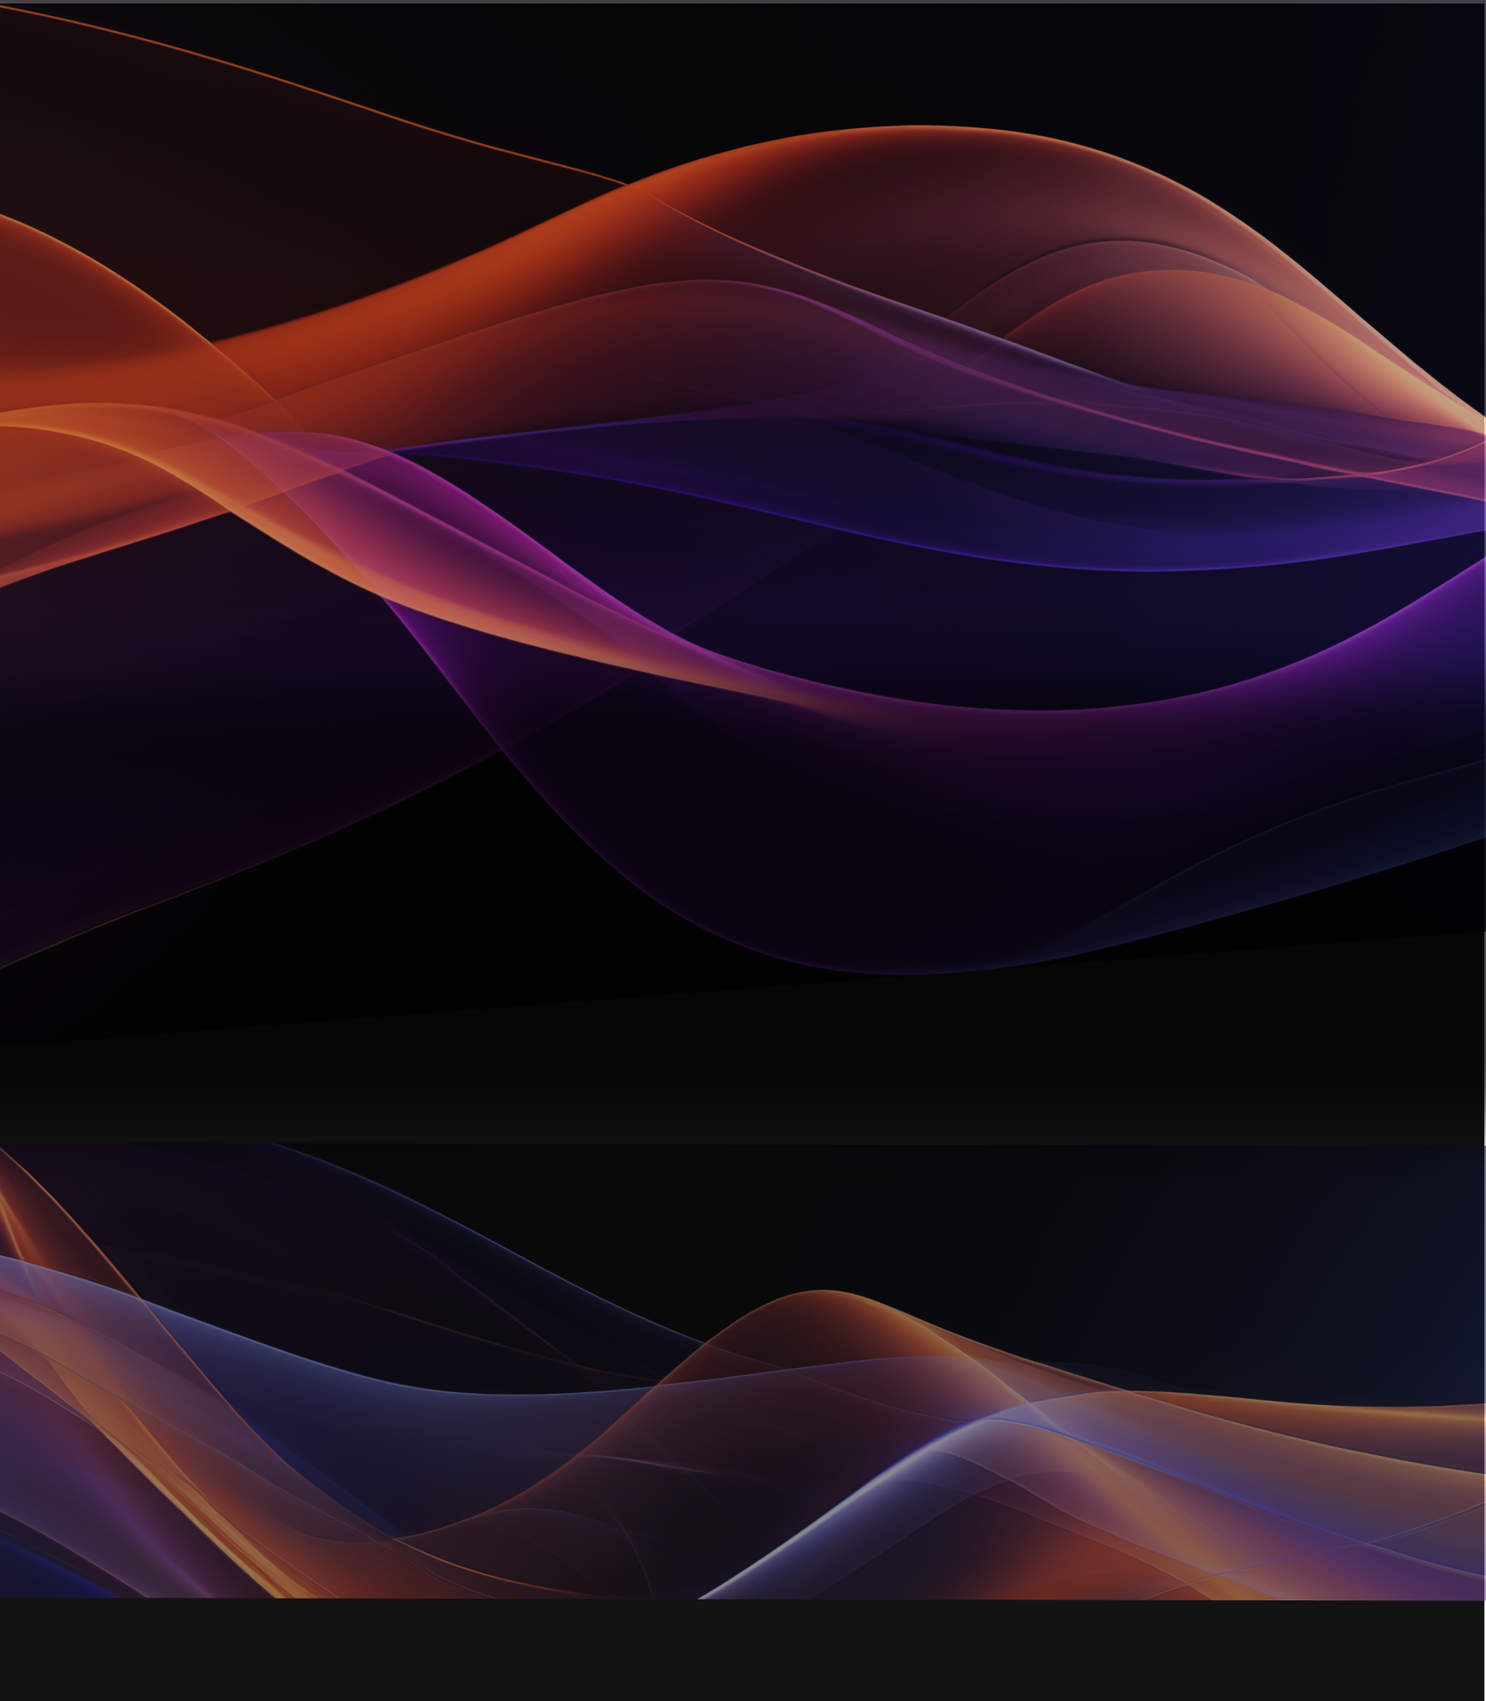
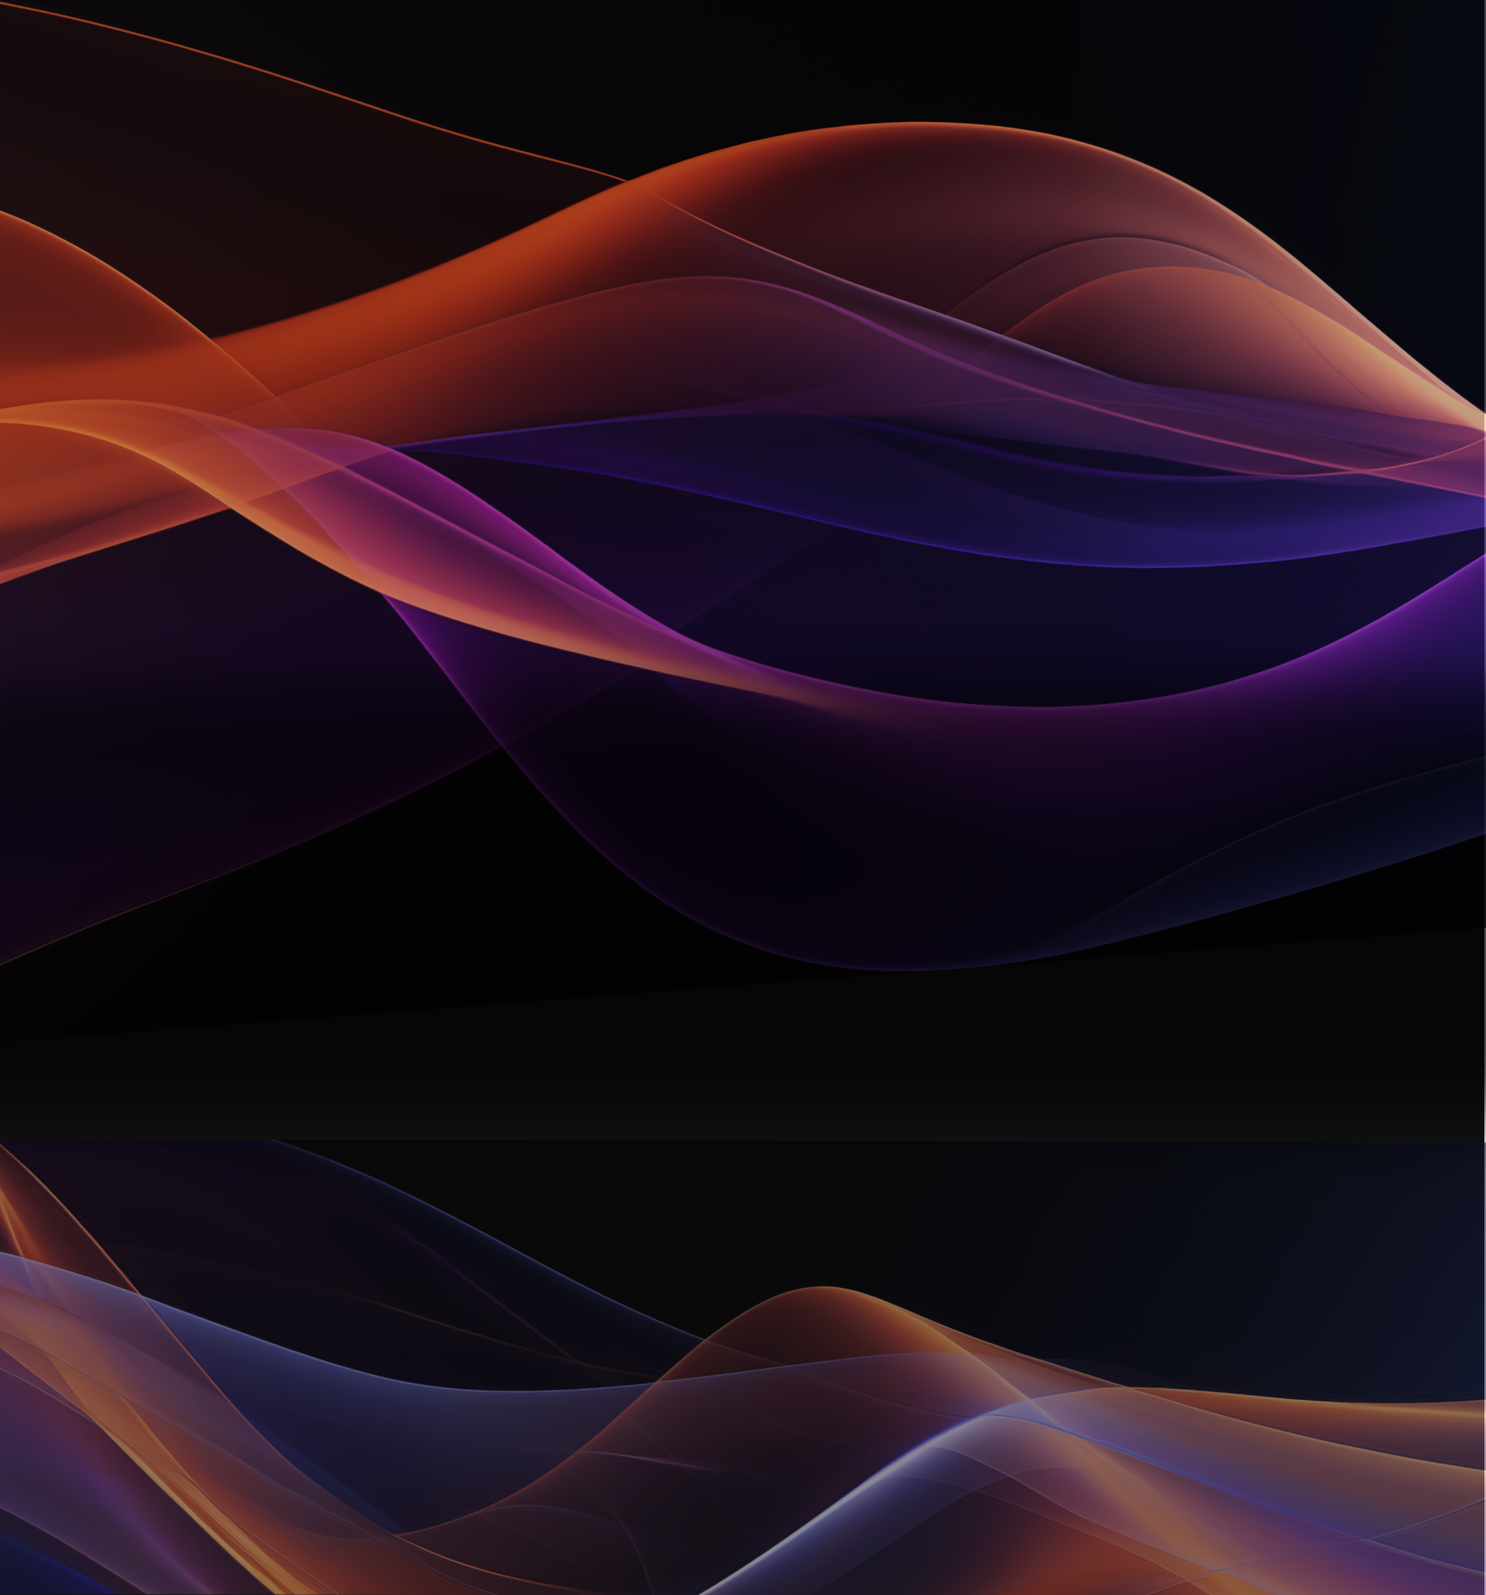
a

diff --git a/src/app/page.tsx b/src/app/page.tsx
@@ -3,92 +3,94 @@ import Sidebar from "./components/sidebar";
 
 export default function Home() {
   return (
-    <main className="bg-[url('/images/bg.png')] bg-cover relative">
-      <div className="absolute left-5 bg-[linear-gradient(180deg,_#F44343_0%,_#FF8719_37.5%,_#FFE819_75%)] w-[5px] h-full top-0 bottom-0"></div>
-      <div className="pl-[66px]">
-        <div className="flex md:gap-[170px] gap-10 pt-[86px]">
+    <main className="bg-[url('/images/bg.png')] bg-top bg-cover relative">
+      <div className="absolute left-3 md:left-5 bg-[linear-gradient(180deg,_#F44343_0%,_#FF8719_37.5%,_#FFE819_75%)] w-1 md:w-[5px] h-full top-0 bottom-0"></div>
+      <div className="max-md:px-[28px] md:pl-[66px]">
+        <div className="flex max-md:flex-col md:gap-[170px] pt-7 md:pt-[86px]">
           <div className="mt-3">
-            <figure className="pb-5 pr-6">
-              <img src="/images/fv-text.png" alt="" />
+            <figure className="md:pb-5 pb-3 md:pr-6">
+              <img className="w-full max-w-[558px]" src="/images/fv-text.png" alt="" />
             </figure>
-            <span className="bg-[#FFC01D]/[0.5] h-px block"></span>
-            <figure className="pt-5 pr-6">
+            <span className="bg-[#FFC01D]/[0.5] h-px block max-md:hidden"></span>
+            <figure className="pt-5 pr-6 max-md:hidden">
               <img src="/images/fv-deco.png" alt="" />
             </figure>
           </div>
           <div className="">
-            <img src="/images/fv-main.png" alt="" />
+            <img className="max-md:max-w-[299px] max-md:w-full" src="/images/fv-main.png" alt="" />
           </div>
+          <figure className="pt-2 pl-3 md:hidden">
+              <img className="w-[224px]" src="/images/fv-deco-sp.png" alt="" />
+            </figure>
         </div>
       </div>
-      <div className="pl-[40px] pr-[30px] mt-6">
-        <div className="flex">
+      <div className="pl-8 pr-6 md:pl-[40px] md:pr-[30px] pt-4 md:pt-6">
+        <div className="flex items-start">
           <Sidebar />
           <div className="flex flex-1 relative">
-            <div className="flex justify-center w-[30px] mx-3">
+            <div className="flex justify-center w-[30px] mx-3 max-md:hidden sticky top-10">
               <figure className="absolute"><img src="/images/ic-circle.png" alt="" /></figure>
               <span className="h-full w-px bg-white/40"></span>
             </div>
             <div className="w-full">
-              <div className="rounded-[23px] w-full h-[45px] flex items-center border border-[#B5B5B5]/[0.85] bg-[linear-gradient(90deg,_#0B0B0B_28.57%,_rgba(11,_11,_11,_0.46)_50%)] px-[38px] text-[23px] font-bold text-white/70">What is ARDOREX?</div>
-              <div className="rounded-[20px] border border-[#C4C4C4]/[0.5] bg-[#101010]/[0.65] mt-10 px-9 py-7 space-y-14  min-h-[1050px]">
-                <div>
-                  <div className="text-white font-bold text-[21px]">The Essence of ARDOREX</div>
-                  <p className="text-white text-[17px] leading-[2.47] mt-5 pl-10">
+              <div className="rounded-[23px] w-full md:min-h-[45px] min-h-[38px] flex items-center border border-[#B5B5B5]/[0.85] bg-[linear-gradient(90deg,_#0B0B0B_28.57%,_rgba(11,_11,_11,_0.46)_50%)] px-5 md:px-[38px] text-[15px] md:text-[23px] font-bold text-white/70">What is ARDOREX?</div>
+              <div className="md:rounded-[20px] rounded-[16px] border border-[#C4C4C4]/[0.5] bg-[#101010]/[0.65] mt-3 md:mt-10 px-4 md:px-9 py-3 md:py-7 space-y-14 min-h-[1050px]">
+                <div id="essence">
+                  <div className="text-white font-bold text-[13px] md:text-[21px]">The Essence of ARDOREX</div>
+                  <p className="text-white text-[13px] md:text-[17px] md:leading-[2.47] mt-5 md:pl-10">
                     ARDOREX is an innovative platform at the core of shaping the future of business through passion and transcendence. Our mission is to turn clients' ambitions into reality by harnessing the power of technology. We embrace new challenges without fear and step into uncharted territories.
                   </p>
                 </div>
-                <div>
-                  <div className="text-white font-bold text-[21px]">Fuelled by Passion</div>
-                  <p className="text-white text-[17px] leading-[2.47] mt-5 pl-10">
+                <div id="fuelled">
+                  <div className="text-white font-bold text-[13px] md:text-[21px]">Fuelled by Passion</div>
+                  <p className="text-white text-[13px] md:text-[17px] md:leading-[2.47] mt-5 md:pl-10">
                     At ARDOREX, everything starts with passion. We spare no effort in exceeding limits to realize our clients' dreams, turning this passion into innovative ideas and solutions that lead to business success.
                   </p>
                 </div>
-                <div>
-                  <div className="text-white font-bold text-[21px]">Aiming for Transcendence</div>
-                  <p className="text-white text-[17px] leading-[2.47] mt-5 pl-10">
+                <div id="aiming">
+                  <div className="text-white font-bold text-[13px] md:text-[21px]">Aiming for Transcendence</div>
+                  <p className="text-white text-[13px] md:text-[17px] md:leading-[2.47] mt-5 md:pl-10">
                     Our goal is not just to meet expectations but to transcend them, achieving outcomes beyond what our clients could have imagined. Join us on this journey to shape the future with ARDOREX.
                   </p>
                 </div>
-                <div>
-                  <div className="text-white font-bold text-[21px]">Adapting to Modern Business Complexities</div>
-                  <p className="text-white text-[17px] leading-[2.47] mt-5 pl-10">
+                <div id="adapting">
+                  <div className="text-white font-bold text-[13px] md:text-[21px]">Adapting to Modern Business Complexities</div>
+                  <p className="text-white text-[13px] md:text-[17px] md:leading-[2.47] mt-5 md:pl-10">
                     The modern business environment is evolving at an unprecedented pace, expanding its scope. To address this complexity, we have successfully dismantled traditional business scopes while integrating synergistic fields to maximize our clients' success through a unified strategy.
                   </p>
                 </div>
               </div>
             </div>
-            <div className="flex justify-center w-[30px] mx-3">
+            <div className="flex justify-center w-[30px] mx-3 max-md:hidden sticky top-10">
               <figure className="absolute"><img src="/images/ic-circle.png" alt="" /></figure>
               <span className="h-full w-px bg-white/40"></span>
             </div>
           </div>
-          <div className="w-[260px]">
+          <div className="w-[260px] max-xl:hidden sticky top-10">
             <a href="/" className="block duration-150 hover:opacity-75">
               <img src="/images/btn.png" alt="ARDOREX BLOG" />
             </a>
             <div className="md:mt-10 mt-7 space-y-7">
               <ul className="space-y-5">
-                <li><Link href="/" className="md:text-[20px] text-[16px] font-bold">The Essence of ARDOREX</Link></li>
-                <li><Link href="/" className="md:text-[20px] text-[16px] font-bold">Fuelled by Passion</Link></li>
-                <li><Link href="/" className="md:text-[20px] text-[16px] font-bold">Aiming for Transcendence</Link></li>
+                <li><Link href="/#essence" className="md:text-[20px] text-[16px] font-bold">The Essence of ARDOREX</Link></li>
+                <li><Link href="/#fuelled" className="md:text-[20px] text-[16px] font-bold">Fuelled by Passion</Link></li>
+                <li><Link href="/#aiming" className="md:text-[20px] text-[16px] font-bold">Aiming for Transcendence</Link></li>
               </ul>
               <ul className="space-y-1.5">
-                <li><Link href="/" className="md:text-[20px] text-[16px] font-bold">Adapting to Modern </Link></li>
-                <li><Link href="/" className="md:text-[20px] text-[16px] font-bold">Business Complexities</Link></li>
+                <li><Link href="/#adapting" className="md:text-[20px] text-[16px] font-bold">Adapting to Modern <br /> Business Complexities</Link></li>
               </ul>
             </div>
           </div>
         </div>
       </div>
-      <div className="md:mt-[60px]">
-        <div className="w-[90%] border-t border-r rounded-tr-[102px] border-white/50 pl-[360px]">
+      <div className="mt-10 md:mt-[60px]">
+        <div className="w-[90%] border-t border-r rounded-tr-[102px] border-white/50 pl-14 lg:pl-[360px]">
           <div className="flex gap-6 pr-8 items-start">
             <div className="border-b border-white/50 flex-1">
-              <div className="py-6"><img src="/images/ardrex.png" alt="" /></div>
+              <div className="py-6"><img className="max-md:w-[100px]" src="/images/ardrex.png" alt="" /></div>
             </div>
             <figure className="mt-[91px]">
-              <img src="/images/code.png" alt="" />
+              <img className="max-md:w-[50px]" src="/images/code.png" alt="" />
             </figure>
           </div>
         </div>

diff --git a/src/app/components/menu.tsx b/src/app/components/menu.tsx
@@ -1,0 +1,87 @@
+"use client";
+import { usePathname } from "next/navigation";
+import Link from "next/link";
+import { ReactNode, useEffect, useRef, useState } from "react";
+import gsap from "gsap";
+
+export default function Menu() {
+  const handleSendEmail = () => {
+    const emailAddress = process.env.EMAIL_ADDRESS;
+    window.location.href = `mailto:${emailAddress}`;
+  };
+  const [expanded, setExpanded] = useState(false);
+  const buttonRef = useRef(null);
+
+  const toggleExpand = () => {
+    setExpanded(!expanded);
+    const button = buttonRef.current;
+
+    if (expanded) {
+      gsap.to(button, { height: 46, xPercent: 100, x: -46, duration: 0.3 });
+    } else {
+      gsap.to(button, { height: 200, duration: 0.3 });
+      gsap.to(button, { height: "auto", xPercent: 0, x: 0, duration: 0.3, delay: 0.3 });
+    }
+  };
+  return (
+    <div className="md:hidden">
+        <div className="fixed top-[10%] right-0 overflow-hidden flex justify-end">
+            <div ref={buttonRef} className="bg-[linear-gradient(180deg,_#FFC700_0%,_#FF8719_100%)] rounded-l-[22px] py-2 origin-right">
+                <button onClick={toggleExpand} className="absolute w-[54px] right-4 top-4 z-10">
+                        <svg className="" xmlns="http://www.w3.org/2000/svg"  viewBox="0 0 107 47" fill="none">
+                        <line x1="1.20064" y1="0.542021" x2="106.201" y2="46.542" stroke="black"/>
+                        <line x1="0.68285" y1="46.2675" x2="105.921" y2="0.814274" stroke="black"/>
+                        </svg>
+                </button>
+                <div className="flex">
+                    <button onClick={toggleExpand} className="flex flex-col items-center pl-2 pr-3.5 gap-2.5">
+                        <figure>
+                            <img src="/images/ic-circle.png" alt="" />
+                        </figure>
+                        <figure>
+                            <img className="w-[9.5px]" src="/images/menu.png" alt="" />
+                        </figure>
+                    </button>
+                    <div className="border-l border-[#9A4646] px-4 py-2 space-y-5 flex-1 relative">
+                        <div>
+                            <p className="text-[14px] font-bold">The Will</p>
+                            <ul className="space-y-1 mt-1">
+                                <li><Link href="/" className="tblock ext-[14px] pl-4">What is ARDOREX</Link></li>
+                                <li><Link href="/get-connection" className="block text-[14px] pl-4">Get Connection</Link></li>
+                            </ul>
+                        </div>
+                        <div>
+                            <p className="text-[14px] font-bold">The forte</p>
+                            <ul className="space-y-1 mt-1">
+                                <li><Link href="/globarity" className="tblock ext-[14px] pl-4">Globarity</Link></li>
+                                <li><Link href="/flextegrity" className="block text-[14px] pl-4">Flextegrity</Link></li>
+                                <li><Link href="/innovity" className="block text-[14px] pl-4">Innovity</Link></li>
+                            </ul>
+                        </div>
+                        <div>
+                            <p className="text-[14px] font-bold">The Contract</p>
+                            <ul className="space-y-1 mt-1">
+                                <li><Link href="/disclaimer" className="tblock ext-[14px] pl-4">Disclaimer</Link></li>
+                                <li><Link href="/payment-method" className="block text-[14px] pl-4">Payment Method</Link></li>
+                                <li><Link href="/ordering-flow" className="block text-[14px] pl-4">Ordering Flow</Link></li>
+                            </ul>
+                        </div>
+                        <div>
+                            <p className="text-[14px] font-bold">Support</p>
+                            <ul className="space-y-1 mt-1">
+                                <li><Link href="/faq" className="tblock ext-[14px] pl-4">FAQ</Link></li>
+                                <li><button type="button" onClick={handleSendEmail} className="block text-[14px] pl-4">Contact</button></li>
+                            </ul>
+                        </div>
+                        <div className="flex justify-end w-full px-5 py-4">
+                            <Link href="/">
+                                <img className="w-[222px]" src="/images/btn.png" alt="" />
+                            </Link>
+                        </div>
+                    </div>
+                </div>
+            </div>
+        </div>
+    </div>
+  );
+}

diff --git a/src/app/components/sidebar.tsx b/src/app/components/sidebar.tsx
@@ -1,5 +1,5 @@
 "use client";
-
+import { usePathname } from "next/navigation";
 import Link from "next/link";
 import { ReactNode } from "react";
 
@@ -14,23 +14,27 @@ function Item({
     active,
     children,
 }: ItemType) {
+  const pathname = usePathname();
   return (
     <li>
-        <Link href={href} className={`flex items-center relative text-[16px] pl-12 [&.active]:before:black before:hidden before:absolute before:left-0 before:content-[''] before:w-4 before:h-4 before:bg-[#FF8719] before:rounded-full ${active && "active"}`}>{children}</Link>
+        <Link href={href} className={`flex items-center relative text-[16px] pl-12 [&.active]:before:block before:hidden before:absolute before:left-0 before:content-[''] before:w-4 before:h-4 before:bg-[#FF8719] before:rounded-full ${pathname === href && "active"}`}>{children}</Link>
     </li>
   );
 }
 
 export default function Sidebar() {
-
+  const handleSendEmail = () => {
+    const emailAddress = process.env.EMAIL_ADDRESS;
+    window.location.href = `mailto:${emailAddress}`;
+  };
   return (
-    <div className="w-[268px] border border-[#B1B1B1] rounded-[17px] px-[18px] space-y-1 sticky pb-6">
+    <div className="w-[268px] border border-[#B1B1B1] rounded-[17px] px-[18px] space-y-1 pb-6 max-lg:hidden sticky top-10">
             <div>
               <div className="font-bold text-[19px] px-2.5 py-[14px] border-b border-white">The Will</div>
               <div className="py-4">
                 <ul className="space-y-8">
                   <Item href="/">What is ARDOREX</Item>
-                  <Item href="/">Get Connection</Item>
+                  <Item href="/get-connection">Get Connection</Item>
                 </ul>
               </div>
             </div>
@@ -38,9 +42,9 @@ export default function Sidebar() {
               <div className="font-bold text-[19px] px-2.5 py-[14px] border-b border-white">The forte</div>
               <div className="py-4">
                 <ul className="space-y-8">
-                    <Item href="/">Globarity</Item>
-                    <Item href="/">Flextegrity</Item>
-                    <Item href="/">Innovity</Item>
+                    <Item href="/globarity">Globarity</Item>
+                    <Item href="/flextegrity">Flextegrity</Item>
+                    <Item href="/innovity">Innovity</Item>
                 </ul>
               </div>
             </div>
@@ -48,9 +52,9 @@ export default function Sidebar() {
               <div className="font-bold text-[19px] px-2.5 py-[14px] border-b border-white">The Contract</div>
               <div className="py-4">
                 <ul className="space-y-8">
-                    <Item href="/">Disclaimer</Item>
-                    <Item href="/">Payment Method</Item>
-                    <Item href="/">Ordering Flow</Item>
+                    <Item href="/disclaimer">Disclaimer</Item>
+                    <Item href="/payment-method">Payment Method</Item>
+                    <Item href="/ordering-flow">Ordering Flow</Item>
                 </ul>
               </div>
             </div>
@@ -58,8 +62,8 @@ export default function Sidebar() {
               <div className="font-bold text-[19px] px-2.5 py-[14px] border-b border-white">Support</div>
               <div className="py-4">
                 <ul className="space-y-8">
-                    <Item href="/">FAQ</Item>
-                    <Item href="/">Contact</Item>
+                    <Item href="/faq">FAQ</Item>
+                    <button type="button" className="flex items-center relative text-[16px] pl-12 [&.active]:before:block before:hidden before:absolute before:left-0 before:content-[''] before:w-4 before:h-4 before:bg-[#FF8719] before:rounded-full" onClick={handleSendEmail}>Contact</button>
                 </ul>
               </div>
             </div>

diff --git a/src/app/components/header.tsx b/src/app/components/header.tsx
@@ -1,11 +1,9 @@
-"use client";
-
 export default function Header() {
   return (
-    <header className="fixed inset-x-0 top-0 px-[66px] z-10 py-[28px]">
+    <header className="fixed inset-x-0 top-0 px-8 md:px-[66px] z-10 pt-3.5 md:pt-[28px]">
       <div>
           <a href="/" className="block">
-            <img src="/images/logo.png" alt="ARDOREX" />
+            <img className="max-md:w-[101px]" src="/images/logo.png" alt="ARDOREX" />
           </a>
         </div>
     </header>

diff --git a/src/app/layout.tsx b/src/app/layout.tsx
@@ -1,6 +1,8 @@
 import type { Metadata } from "next";
 import "./globals.css";
 import Header from "./components/header";
+import Footer from "./components/footer";
+import Menu from "./components/menu";
 
 
 export const metadata: Metadata = {
@@ -18,6 +20,8 @@ export default function RootLayout({
       <body>
         <Header />
         {children}
+        <Menu />
+        <Footer />
         </body>
     </html>
   );

diff --git a/src/app/components/footer.tsx b/src/app/components/footer.tsx
@@ -1,0 +1,8 @@
+export default function Footer() {
+    return (
+      <footer className="bg-black px-5 md:px-10 md:h-[126px] h-[100px] flex justify-end py-9">
+        <p className="text-[14px] text-white">Copyright 2024 Ardorex Inc.</p>
+      </footer>
+    );
+  }
+  

diff --git a/src/app/globals.css b/src/app/globals.css
@@ -9,3 +9,7 @@ body {
   color: #fff;
   font-family: "Helvetica", sans-serif;
 }
+
+* {
+  scroll-margin-top: 40px;
+}
